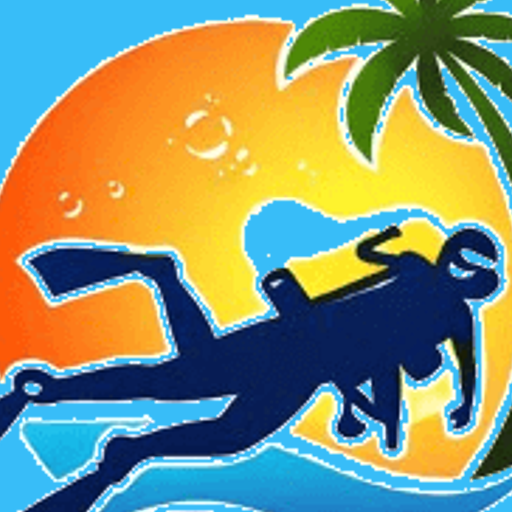
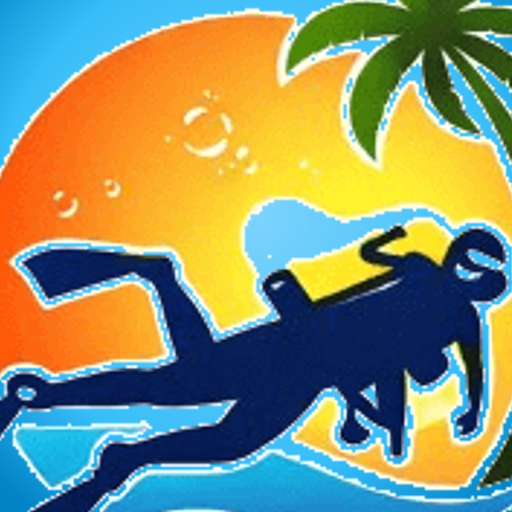
Fix super admin top-right dropdown menu

diff --git a/src/app/layout.tsx b/src/app/layout.tsx
@@ -48,12 +48,12 @@ export const metadata: Metadata = {
   icons: {
     icon: [
       { url: "/favicon.ico", type: "image/x-icon" },
-      { url: "/icons/icon-192.png", sizes: "192x192", type: "image/png" },
-      { url: "/icons/icon-512.png", sizes: "512x512", type: "image/png" },
+      { url: "/icons/icon-192.png?v=4", sizes: "192x192", type: "image/png" },
+      { url: "/icons/icon-512.png?v=4", sizes: "512x512", type: "image/png" },
       { url: "/icon.png", type: "image/png" },
     ],
     apple: [
-      { url: "/icons/apple-touch-icon.png", sizes: "180x180", type: "image/png" },
+      { url: "/icons/apple-touch-icon.png?v=4", sizes: "180x180", type: "image/png" },
       { url: "/apple-icon.png", type: "image/png" },
     ],
     shortcut: ["/favicon.ico"],
@@ -82,8 +82,8 @@ export const viewport: Viewport = {
   initialScale: 1,
   viewportFit: "cover",
   themeColor: [
-    { media: "(prefers-color-scheme: light)", color: "#38bdf8" },
-    { media: "(prefers-color-scheme: dark)", color: "#38bdf8" },
+    { media: "(prefers-color-scheme: light)", color: "#0ea5e9" },
+    { media: "(prefers-color-scheme: dark)", color: "#0ea5e9" },
   ],
 };
 
@@ -99,7 +99,7 @@ export default function RootLayout({
         <meta name="mobile-web-app-capable" content="yes" />
         <meta name="apple-mobile-web-app-capable" content="yes" />
         <meta name="apple-mobile-web-app-title" content={SITE_NAME} />
-        <link rel="apple-touch-icon" href="/icons/apple-touch-icon.png" />
+        <link rel="apple-touch-icon" href="/icons/apple-touch-icon.png?v=4" />
         <link rel="preconnect" href="https://images.unsplash.com" crossOrigin="" />
         <link
           rel="preconnect"

diff --git a/src/app/manifest.ts b/src/app/manifest.ts
@@ -11,33 +11,33 @@ export default function manifest(): MetadataRoute.Manifest {
     scope: "/",
     display: "standalone",
     orientation: "any",
-    // Matches generated PWA icon sky-blue tile (see scripts/generate-pwa-icons.mjs)
-    background_color: "#38bdf8",
-    theme_color: "#38bdf8",
+    // Matches generated PWA icon sky tile (see scripts/generate-pwa-icons.mjs)
+    background_color: "#0ea5e9",
+    theme_color: "#0ea5e9",
     lang: "en-IN",
     dir: "ltr",
     categories: ["travel", "lifestyle", "sports"],
     icons: [
       {
-        src: "/icons/icon-192.png",
+        src: "/icons/icon-192.png?v=4",
         sizes: "192x192",
         type: "image/png",
         purpose: "any",
       },
       {
-        src: "/icons/icon-512.png",
+        src: "/icons/icon-512.png?v=4",
         sizes: "512x512",
         type: "image/png",
         purpose: "any",
       },
       {
-        src: "/icons/maskable-192.png",
+        src: "/icons/maskable-192.png?v=4",
         sizes: "192x192",
         type: "image/png",
         purpose: "maskable",
       },
       {
-        src: "/icons/maskable-512.png",
+        src: "/icons/maskable-512.png?v=4",
         sizes: "512x512",
         type: "image/png",
         purpose: "maskable",

diff --git a/public/sw.js b/public/sw.js
@@ -1,5 +1,5 @@
-/* Book Scuba Goa PWA — bsg-pwa-v3 */
-const CACHE = "bsg-pwa-v3";
+/* Book Scuba Goa PWA — bsg-pwa-v4 */
+const CACHE = "bsg-pwa-v4";
 const PRECACHE = [
   "/icons/icon-192.png",
   "/icons/icon-512.png",
